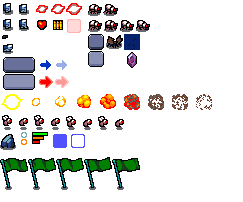
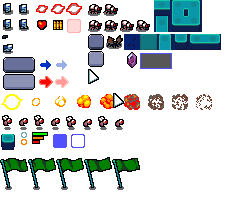
Added custom cursor.

diff --git a/SpaceBlaster/GameSpecific/Weapon/Weapon.cs b/SpaceBlaster/GameSpecific/Weapon/Weapon.cs
@@ -62,6 +62,7 @@ public class Weapon : Position, IArtificialIntelligence, IAnimatable
     public AnimationPlayer AnimationPlayer { get; set; }
     public Vector2 Direction = new Vector2(0, 0);
     private double CurrentTimer = 0;
+    private double CurrentSFXTimer = 0;
     public bool CanShoot = true;
     private Random rand = new Random();
     public WeaponStats stats;
@@ -91,7 +92,7 @@ public class Weapon : Position, IArtificialIntelligence, IAnimatable
             wstats.ProjectileCount,
             false,
             (float)wstats.FireRate,
-            300,
+            400,
             1,
             0,
             1f,
@@ -123,12 +124,12 @@ public class Weapon : Position, IArtificialIntelligence, IAnimatable
         }
         else if (this.stats.type == WeaponType.FLAMETHROWER)
         {
-            CurrentTimer += gameTime.ElapsedGameTime.TotalMilliseconds;
+            CurrentSFXTimer += gameTime.ElapsedGameTime.TotalMilliseconds;
 
-            if (shooting && CurrentTimer > stats.FireRate)
+            if (shooting && CurrentSFXTimer > stats.FireRate)
             {
                 SoundEffectsManager.Play(this,"flamethrower");
-                CurrentTimer = 0;
+                CurrentSFXTimer = 0;
             }
 
             flames.dir = this.Direction;
@@ -138,6 +139,18 @@ public class Weapon : Position, IArtificialIntelligence, IAnimatable
             flames.emit = shooting;
             damageArea.active = shooting;
         }
+    }
+
+    public void UpdateStats()
+    {
+        damageArea.Damage = this.stats.Damage;
+        flames.spread = this.stats.Spread;
+        flames.maxSpeed = this.stats.ProjectileSpeed;
+        flames.minSpeed = this.stats.ProjectileSpeed / 2;
+        flames.spawnInterval = this.stats.FireRate;
+        flames.howMany = this.stats.ProjectileCount;
+        flames.emit = false;
+        shooting = false;
     }
 
     public void Aim(Vector2 dir)

diff --git a/SpaceBlaster/GameSpecific/UI/Cursor.cs b/SpaceBlaster/GameSpecific/UI/Cursor.cs
@@ -1,0 +1,27 @@
+using Microsoft.Xna.Framework;
+namespace GameSpecific;
+using System.Collections.Generic;
+using GameEngine.Graphics;
+using GameEngine.Scene;
+using GameEngine.Scene.Components;
+using Microsoft.Xna.Framework.Input.Touch;
+using Microsoft.Xna.Framework.Input;
+using SpaceBlaster;
+using GameEngine.Gameplay.Input;
+
+public class Cursor : Position, IUIAnimatable, IInputHandler
+{
+    public AnimationPlayer AnimationPlayer { get; set; }
+    public Cursor(float x, float y, Scene scene, SceneObject parent) : base(x, y, scene, parent)
+    {
+        this.AnimationPlayer = new AnimationPlayer(
+            new Dictionary<int, AnimatedSprite>(){
+                { 0, new AnimatedSprite(SpaceBlasterGame.TextureAtlas, new Vector2(88, 69), 1, 0.2, 16, 16, 2, 0f, new Vector2(0, 0)) },
+            }
+        );
+    }
+
+    public void HandleInput(GameTime gameTime, TouchCollection touch, KeyboardState keyboard, MouseState mouse, Matrix UITransform, Matrix RendererTransform) {
+        this.Pos = InputManager.MousePosUI;
+    }
+}

diff --git a/SpaceBlaster/GameSpecific/Scenes/StoryScreen.cs b/SpaceBlaster/GameSpecific/Scenes/StoryScreen.cs
@@ -3,6 +3,8 @@ using GameEngine.Scene.Components;
 using GameEngine.Scene.UI;
 using SpaceBlaster;
 using Microsoft.Xna.Framework;
+using GameSpecific;
+using System;
 
 //         this._components.Add(new IntroStoryBook(0,0,this));
 
@@ -17,6 +19,12 @@ public class StoryScreen : GameEngine.Scene.Scene
         var bg = new Background(0, 0, this);
         bg.AnimationPlayer.SetCurrentAnimation(0);
         _components.Add(bg);
+
+        if (OperatingSystem.IsWindows())
+        {
+            Cursor c = new Cursor(0, 0, this, null);
+            this.Spawn(c);
+        }
 
         this.Camera = new Camera(0, 0, this, null);
         var storybook = new IntroStoryBook(SpaceBlasterGame.VirtualResolutionWidth / 2 - 64 * 5, SpaceBlasterGame.VirtualResolutionHeight / 2 - 64 * 5, this);

diff --git a/SpaceBlaster/GameSpecific/Player/Player.cs b/SpaceBlaster/GameSpecific/Player/Player.cs
@@ -37,7 +37,7 @@ public class Player : Physics, IAnimatable, IInputHandler
                 var e = new Explosion(this.Pos.X - this.Rect.Center.X, this.Pos.Y - this.Rect.Center.Y, this.scene);
                 this.scene.Spawn(e);
                 
-                this.shootMarker2.Destroy();
+                if (OperatingSystem.IsAndroid()) this.shootMarker2.Destroy();
 
                 Button restart = new Button(
                     SpaceBlasterGame.VirtualResolutionWidth / 2 - 8 * 3 - 16 * 3,
@@ -144,6 +144,8 @@ public class Player : Physics, IAnimatable, IInputHandler
     {
         if (whichWeapon) currentWeapon.stats = primaryWeapon;
         else currentWeapon.stats = secondaryWeapon;
+
+        currentWeapon.UpdateStats();
 
         whichWeapon = !whichWeapon;
     }

diff --git a/SpaceBlaster/GameSpecific/Scenes/Level.cs b/SpaceBlaster/GameSpecific/Scenes/Level.cs
@@ -46,6 +46,12 @@ public class Level : GameEngine.Scene.Scene
 
     public void InitializeUI()
     {
+        if (OperatingSystem.IsWindows())
+        {
+            Cursor c = new Cursor(0, 0, this, null);
+            this.Spawn(c);
+        }
+
         UIPanel uiPanel = new UIPanel(0,0, this);
         this.Spawn(uiPanel);
 
@@ -79,7 +85,7 @@ public class Level : GameEngine.Scene.Scene
         var bg = new LevelBackground(0, 0, this, Camera);
         Components.Add(bg);
 
-        Components.AddRange(LevelGenerator.LevelGenerator.Generate(6, this));
+        Components.AddRange(LevelGenerator.LevelGenerator.Generate(4, this));
         Components.Add(_player);
 
         MusicManager.play("gameplay");

diff --git a/SpaceBlaster/GameSpecific/Scenes/LoadoutScreen.cs b/SpaceBlaster/GameSpecific/Scenes/LoadoutScreen.cs
@@ -5,6 +5,7 @@ using SpaceBlaster;
 using GameEngine.Scene.UI;
 using GameEngine.Scene.Components;
 using GameEngine.Gameplay.Audio;
+using System;
 
 public class LoadoutScreen : GameEngine.Scene.Scene
 {
@@ -24,6 +25,12 @@ public class LoadoutScreen : GameEngine.Scene.Scene
         var bg = new Background(0, 0, this);
         bg.AnimationPlayer.SetCurrentAnimation(2);
         _components.Add(bg);
+
+        if (OperatingSystem.IsWindows())
+        {
+            Cursor c = new Cursor(0, 0, this, null);
+            _components.Add(c);
+        }
 
         //SpaceBlasterGame.Settings.Save();
         _game = game;

diff --git a/SpaceBlaster/GameSpecific/Scenes/SettingsScreen.cs b/SpaceBlaster/GameSpecific/Scenes/SettingsScreen.cs
@@ -5,6 +5,7 @@ using SpaceBlaster;
 using GameEngine.Scene.UI;
 using GameEngine.Scene.Components;
 using GameEngine.Gameplay.Audio;
+using System;
 
 public class SettingsScreen : GameEngine.Scene.Scene
 {
@@ -22,6 +23,12 @@ public class SettingsScreen : GameEngine.Scene.Scene
         var bg = new Background(0, 0, this);
         bg.AnimationPlayer.SetCurrentAnimation(2);
         _components.Add(bg);
+
+        if (OperatingSystem.IsWindows())
+        {
+            Cursor c = new Cursor(0, 0, this, null);
+            _components.Add(c);
+        }
 
         this.Camera = new Camera(0, 0, this, null);
 

diff --git a/SpaceBlaster/GameSpecific/Scenes/CreditsScreen.cs b/SpaceBlaster/GameSpecific/Scenes/CreditsScreen.cs
@@ -5,6 +5,7 @@ using SpaceBlaster;
 using GameEngine.Scene.UI;
 using GameEngine.Scene.Components;
 using GameEngine.Gameplay.Audio;
+using System;
 
 public class CreditsScreen : GameEngine.Scene.Scene
 {
@@ -12,6 +13,12 @@ public class CreditsScreen : GameEngine.Scene.Scene
 
     public CreditsScreen(SpaceBlaster.SpaceBlasterGame game) : base(game)
     {
+        if (OperatingSystem.IsWindows())
+        {
+            Cursor c = new Cursor(0, 0, this, null);
+            this.Spawn(c);
+        }
+
         //SpaceBlasterGame.Settings.Save();
         _game = game;
 

diff --git a/SpaceBlaster/GameSpecific/Scenes/TitleScreen.cs b/SpaceBlaster/GameSpecific/Scenes/TitleScreen.cs
@@ -19,6 +19,12 @@ public class TitleScreen : GameEngine.Scene.Scene
         bg.AnimationPlayer.SetCurrentAnimation(1);
         _components.Add(bg);
 
+        if (OperatingSystem.IsWindows())
+        {
+            Cursor c = new Cursor(0, 0, this, null);
+            this.Spawn(c);
+        }
+
         this.Camera = new Camera(0, 0, this, null);
         this._components.Add(new Label(SpaceBlasterGame.VirtualResolutionWidth / 2 - 100, 100, "High Score: " + SpaceBlasterGame.Settings.HighScore, Color.White, this, null));
 

diff --git a/SpaceBlaster/GameSpecific/LevelGenerator/LevelGenerator.cs b/SpaceBlaster/GameSpecific/LevelGenerator/LevelGenerator.cs
@@ -19,6 +19,7 @@ public class LevelGenerator
 
     static LevelGeneratorDir _currentDir = LevelGeneratorDir.UP;
     static LevelGeneratorDir _prevDir = LevelGeneratorDir.RIGHT;
+
     public static Room getRandomRoom(Level scene)
     {
         int i = RandomNumber.GetRandomNumber(0, RoomLayouts.maxRoom);

diff --git a/SpaceBlaster/SpaceBlaster.cs b/SpaceBlaster/SpaceBlaster.cs
@@ -66,6 +66,8 @@ namespace SpaceBlaster
 
             MusicManager.setVolume(Settings.MusicVolume / 10f);
             SoundEffectsManager.setVolume(Settings.MusicVolume / 10f);
+            
+            this.IsMouseVisible = false;
 
             this.InitializeTitleScreen();
         }
